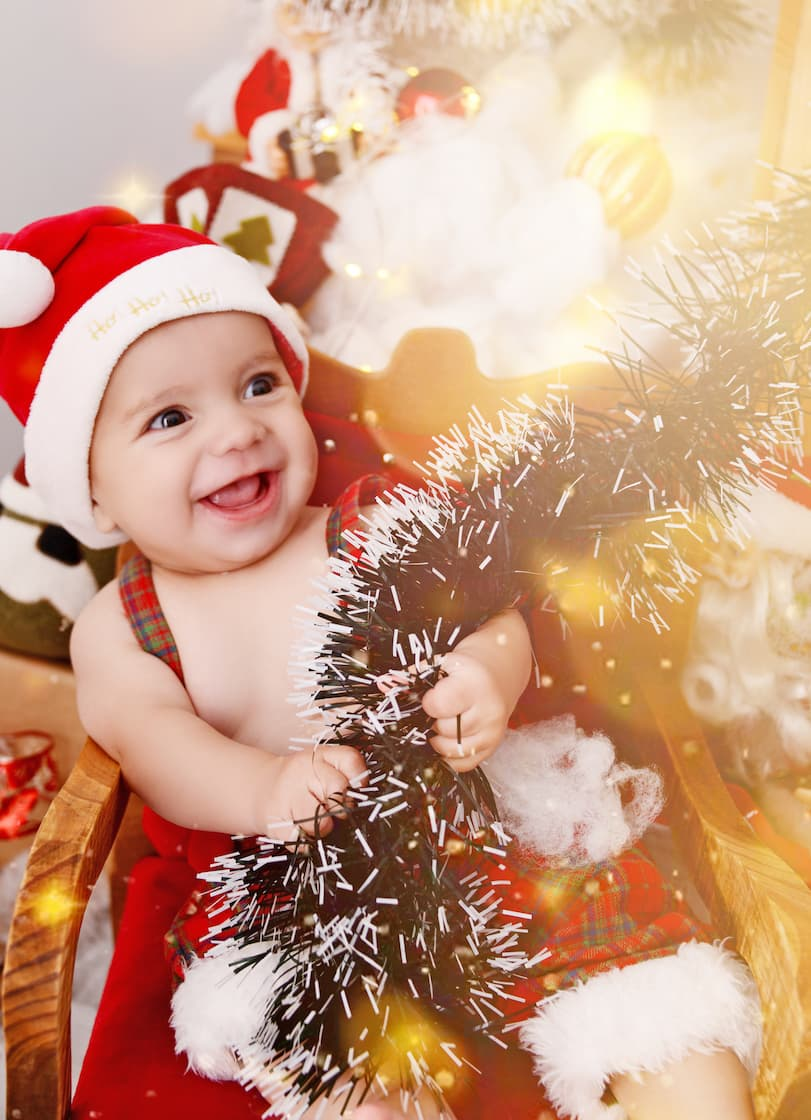
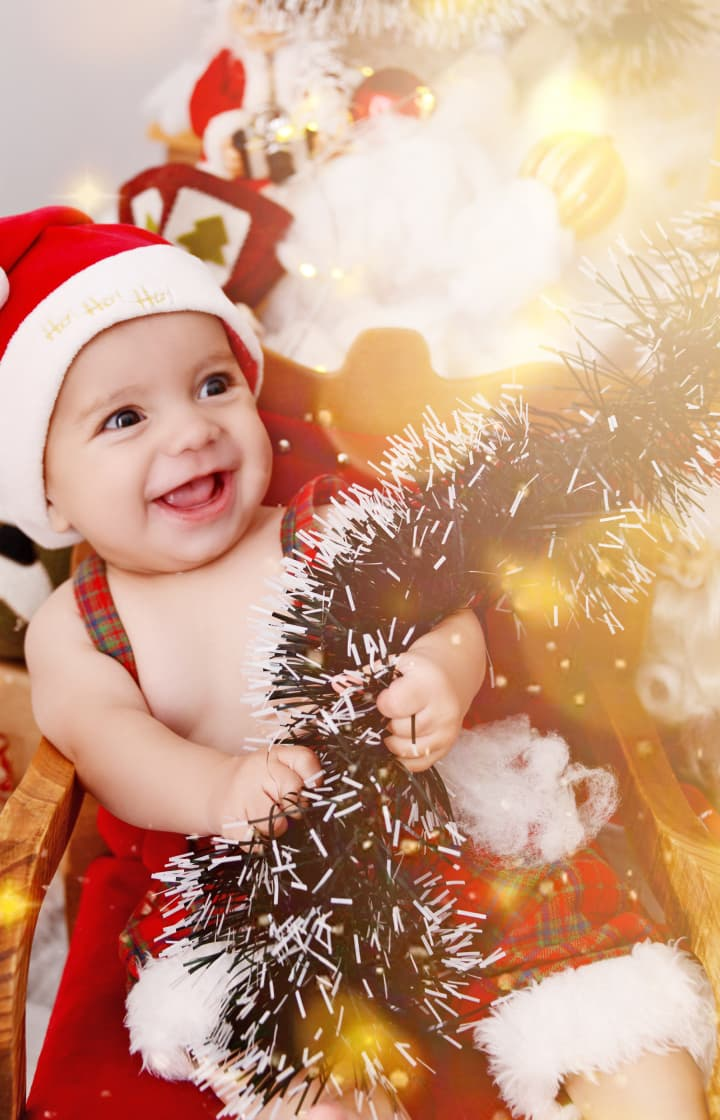
mais otimizações nas imagens de todas as páginas

diff --git a/index.html b/index.html
@@ -46,7 +46,7 @@
       <span class="fonte-2-s cor-cinza-4">08h às 18h</span>
     </div>
 
-    <img class="sombra-1" src="./img/home/agendar2.jpg" alt="Bebê de 4 meses em nosso estúdio">
+    <img class="sombra-1" src="./img/home/agendar.jpg" alt="Bebê de 4 meses em nosso estúdio">
   </main>
 
   <article class="galerias-home" data-animar="cima">
@@ -95,17 +95,17 @@
 
     <ul>
       <li>
-        <img class="sombra-1" src="img/home/originais/resolucao.jpg" alt="Olho de um bêbê">
+        <img class="sombra-1 alt" src="img/home/resolucao.jpg" alt="Olho de um bêbê">
         <h3 class="fonte-1-l cor-cinza-6">Alta definição</h3>
         <p class="fonte-2-s cor-cinza-4">Fotos em resolução 8k, para postar em suas redes sociais.</p>
       </li>
       <li>
-        <img class="sombra-1" src="img/home/originais/impressao.png" alt="Olho de um bêbê">
+        <img class="sombra-1" src="img/home/impressao.jpg" alt="Olho de um bêbê">
         <h3 class="fonte-1-l cor-cinza-6">Papel de qualidade</h3>
         <p class="fonte-2-s cor-cinza-4">Fotos impressas em papel fotográfico para ter para sempre uma lembrança daquele momento.</p>
       </li>
       <li>
-        <img class="sombra-1" src="img/home/originais/edicao.jpg" alt="Olho de um bêbê">
+        <img class="sombra-1" src="img/home/edicao.jpg" alt="Olho de um bêbê">
         <h3 class="fonte-1-l cor-cinza-6">Edições perfeitas</h3>
         <p class="fonte-2-s cor-cinza-4">Fotos editadas com tratamento de cor e luz, além de edições especias no estilo FineArt.</p>
       </li>

diff --git a/contato.html b/contato.html
@@ -44,13 +44,13 @@
     <article class="contato conteiner" data-animar="cima">
       <div class="contato-conteudo fonte-2-s cor-cinza-4">
         <h1 class="fonte-1-xl cor-cinza-6">Entre em contato pelo WhatsApp e agende seu horário</h1>
-        <a class="botao-primario" href="https://wa.me/555537911633?text=Oi" target="_blank"><img src="img/icons/whatsapp-vermelho.svg" alt="WhatsApp da empresa">WhatsApp</a>
+        <a class="botao-primario" href="https://wa.me/555537911633?text=Oi" target="_blank"><img src="img/icons/whatsapp-vermelho.svg" alt="WhatsApp da empresa" width="20" height="20">WhatsApp</a>
         <span>ou 55 3791-1633</span>
         <a href="mailto:contato@lucanstudio.com.br" target="_blank">contato@lucanstudio.com.br</a>
         <a href="https://instagram.com/lucanstudio/" target="_blank"><img src="img/icons/instagram-preto.svg" alt="Instagram" width="16" height="16"></a>
       </div>
 
-      <img src="./img/home/originais/agendar.png" alt="Bebê de 4 meses em nosso estúdio">
+      <img src="./img/contato/contato.jpg" alt="Bebê de 4 meses em nosso estúdio" width="560" height="560">
     </article>
   </main>
 

diff --git a/css/sobre.css b/css/sobre.css
@@ -7,6 +7,7 @@
 .sobre img {
   height: 560px;
   width: 100%;
+  object-position: bottom;
 }
 
 .sobre h2 {
@@ -18,42 +19,13 @@
   margin-bottom: var(--espaco-ms);
 }
 
-.depoimento-bg {
-  background: var(--cor-primaria-1);
-  padding-top: var(--espaco-xl);
-  padding-bottom: var(--espaco-xl);
-}
-
-.depoimento {
-  grid-template-columns: 1fr 1fr;
-  justify-items: end;
-  align-items: center;
-  color: #FFD5D5;
-  margin-bottom: 0px;
-}
-
-.depoimento img {
-  height: 560px;
-  width: 100%;
-}
-
-.depoimento-conteudo p {
-  margin-bottom: var(--espaco-xs);
-}
-
-.depoimento-conteudo span {
-  font-size: 1.2rem;
-}
-
 @media (max-width: 800px) {
 
-  .sobre,
-  .depoimento {
+  .sobre {
     grid-template-columns: 1fr;
   }
 
-  .sobre img,
-  .depoimento img {
+  .sobre img {
     height: 280px;
     grid-row: 2;
   }

diff --git a/sobre.html b/sobre.html
@@ -42,7 +42,7 @@
     <h1 class="titulo">Sobre nós</h1>
 
     <section class="sobre conteiner" data-animar="cima" aria-label="Sobre nossa história">
-      <img class="sombra-1" src="img/sobre/originais/sobre.png" alt="Menino segurando uma câmera">
+      <img class="sombra-1" src="img/sobre/sobre.jpg" alt="Menino segurando uma câmera">
 
       <div class="sobre-conteudo">
         <h2 class="fonte-1-l cor-cinza-6">A mais de 30 anos registrando momentos</h2>

diff --git a/css/home/galerias-home.css b/css/home/galerias-home.css
@@ -31,7 +31,7 @@
 }
 
 .galerias-slides img:nth-child(6) {
-  object-position: 0 -100px;
+  object-position: center -50px;
 }
 
 .galerias-home a,
@@ -78,9 +78,7 @@
 }
 
 @media (max-width: 1000px) {
-
-  .galerias-slides img:nth-child(4),
-  .galerias-slides img:nth-child(6) {
+  .galerias-slides img:nth-child(4) {
     object-position: 0;
   }
 }

diff --git a/css/home/qualidade.css b/css/home/qualidade.css
@@ -31,6 +31,10 @@
   .qualidade ul img {
     height: 280px;
   }
+
+  .qualidade ul img.alt {
+    object-position: 0 -50px;
+  }
 }
 
 @media (max-width: 800px) {

diff --git a/css/global/componentes/header-menu.css b/css/global/componentes/header-menu.css
@@ -87,7 +87,6 @@
     padding: var(--espaco-xs) var(--espaco-xs);
   }
 
-
   .header ul li:not(:first-child) a:hover {
     background: var(--cor-cinza-2);
   }
